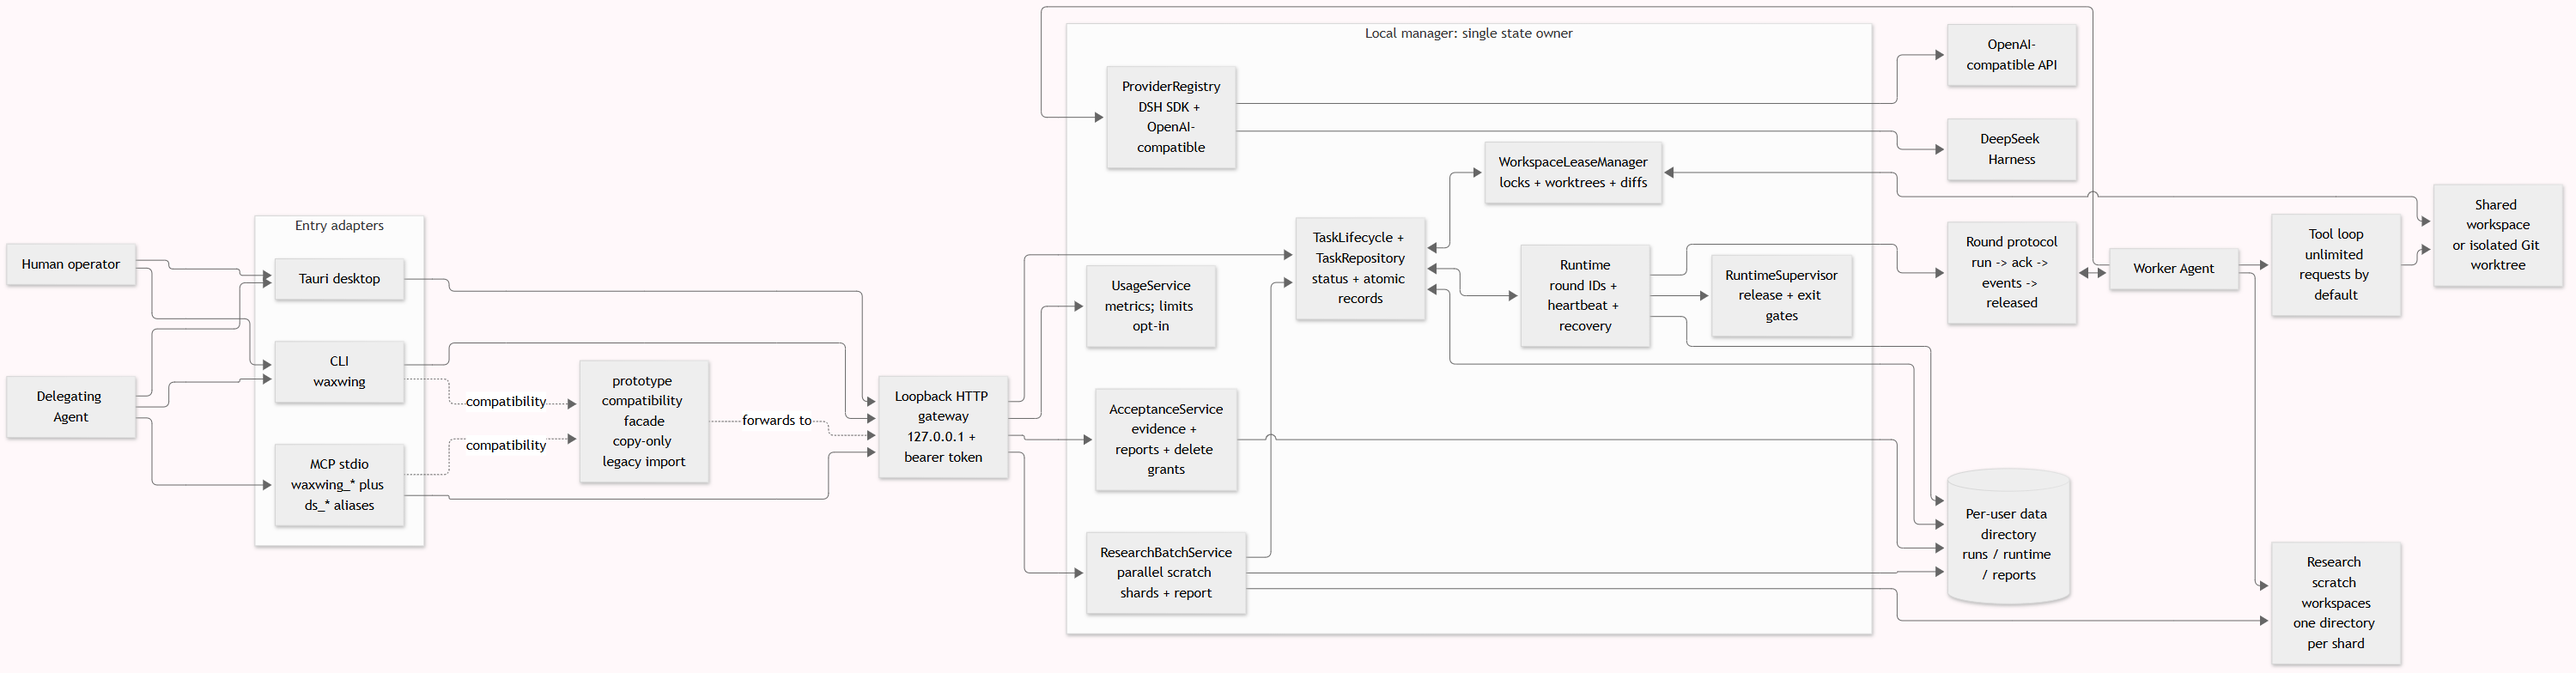
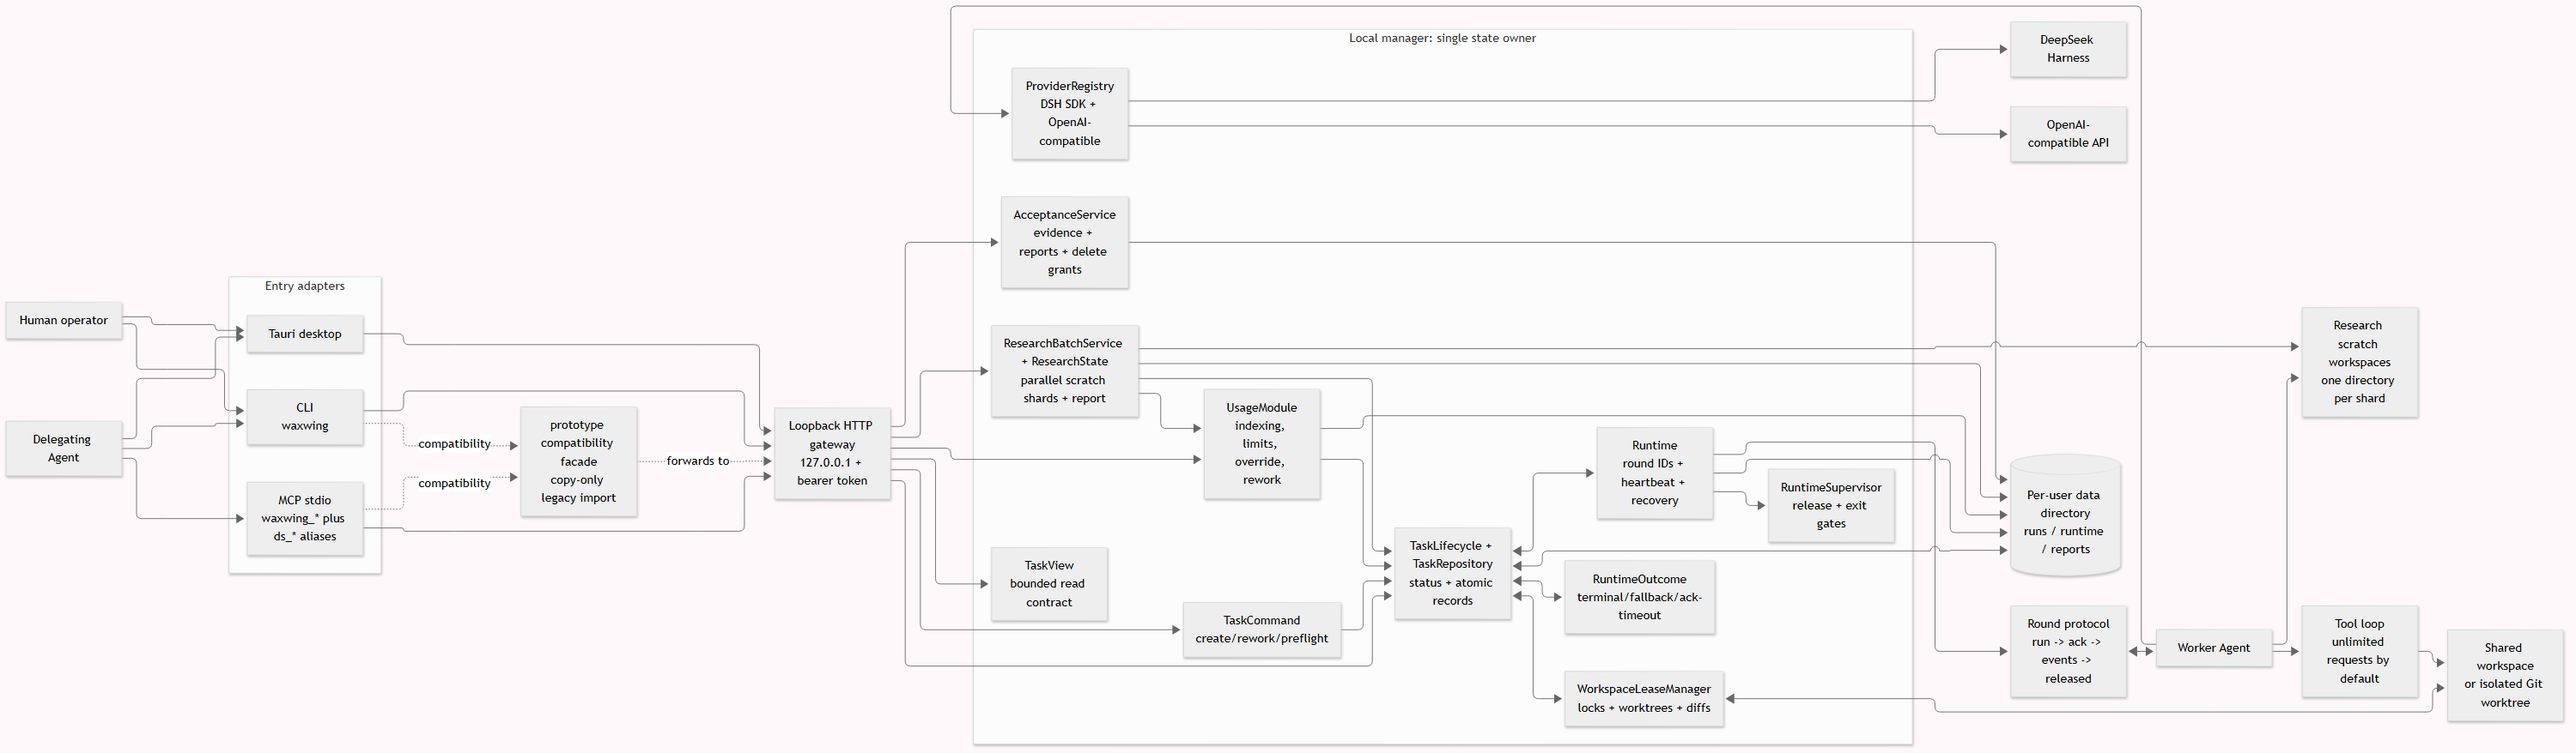
Update docs for published package and deepened modules

diff --git a/docs/architecture.md b/docs/architecture.md
@@ -27,13 +27,14 @@ interface.
 | `src/runtime/outcome.mjs` | Runtime terminal outcome, first-round fallback, protocol failure, and ACK timeout projection |
 | `src/runtime/supervisor.mjs` | Release and confirmed-exit gates used by the runtime module |
 | `src/runtime/identity.mjs` | Residual-runtime identity verification |
+| `src/tasks/command.mjs` | Create/rework/preflight validation order and transaction inputs |
 | `src/acceptance/service.mjs` | Reports, hashes, deletion manifests, human grants |
 | `src/research/state.mjs` | Shard-to-batch state machine, cancellation preservation, terminal classification |
 | `src/research/service.mjs` | Parallel read-only research shards, scratch workspaces, partial results, aggregate reports |
 | `src/usage/execution-policy.mjs` | Round-start policy read, bounded prompt appendix, and report provenance |
 | `src/usage/policy.mjs` | Limit validation, inheritance, threshold matrix, one-round override decision |
-| `src/usage/module.mjs` | One seam for metrics snapshots, cumulative limits, one-round override, and rework policy |
-| `src/usage/service.mjs` | Compatibility metrics facade; optional thresholds are disabled by default |
+| `src/usage/module.mjs` | One usage seam: indexing, pricing, limits, override, and rework policy |
+| `src/usage/service.mjs` | Compatibility facade; production callers use `UsageModule` |
 | `src/providers/registry.mjs` | Provider discovery and adapter selection |
 | `prototype/manager.mjs` | `0.1.x` coordinator and compatibility facade |
 | `prototype/` | Legacy entry-point and data compatibility until at least `0.2.0` |
@@ -60,13 +61,16 @@ flowchart LR
   Gateway["Loopback HTTP gateway<br/>127.0.0.1 + bearer token"]
 
   subgraph Manager["Local manager: single state owner"]
+    TaskCmd["TaskCommand<br/>create/rework/preflight"]
     Tasks["TaskLifecycle + TaskRepository<br/>status + atomic records"]
+    Outcome["RuntimeOutcome<br/>terminal/fallback/ack-timeout"]
     Runtime["Runtime<br/>round IDs + heartbeat + recovery"]
     Supervisor["RuntimeSupervisor<br/>release + exit gates"]
     Lease["WorkspaceLeaseManager<br/>locks + worktrees + diffs"]
     Acceptance["AcceptanceService<br/>evidence + reports + delete grants"]
-    Research["ResearchBatchService<br/>parallel scratch shards + report"]
-    Usage["UsageService<br/>metrics; limits opt-in"]
+    Research["ResearchBatchService + ResearchState<br/>parallel scratch shards + report"]
+    Usage["UsageModule<br/>indexing, limits, override, rework"]
+    TaskView["TaskView<br/>bounded read contract"]
     Providers["ProviderRegistry<br/>DSH SDK + OpenAI-compatible"]
   end
 
@@ -89,18 +93,25 @@ flowchart LR
   MCP --> Gateway
   Desktop --> Gateway
 
+  Gateway --> TaskCmd
+  Gateway --> TaskView
   Gateway --> Tasks
   Gateway --> Acceptance
   Gateway --> Research
   Gateway --> Usage
+  TaskCmd --> Tasks
+  Tasks <--> Outcome
   Tasks <--> Runtime
   Runtime --> Supervisor
   Tasks <--> Lease
   Tasks <--> Data
   Acceptance --> Data
   Research --> Tasks
+  Research --> Usage
   Research --> Scratch
   Research --> Data
+  Usage --> Data
+  Usage --> Tasks
   Runtime --> Data
 
   Runtime --> Protocol

diff --git a/docs/release-notes-0.1.0.md b/docs/release-notes-0.1.0.md
@@ -19,14 +19,18 @@ statistics on the local machine.
 - Waxwing data lives under the per-user Waxwing directory, with copy-only
   migration from the legacy location.
 
-## Downloads
+## Install
 
-- `waxwing-0.1.0.tgz`: npm package artifact for the `waxwing` CLI and MCP server.
-- `waxwing-0.1.0-windows-x64.zip`: unsigned portable Windows desktop build.
-- `SHA256SUMS`: checksums for the release artifacts.
+Install the npm package from the registry:
 
-The npm registry publication is pending. Install the tarball above until
-`npm install -g @quanernya/waxwing` becomes available.
+```bash
+npm install -g @quanernya/waxwing
+```
+
+The package installs `waxwing` for the CLI and `waxwing-mcp` for the MCP stdio
+server. The tarball `waxwing-0.1.0.tgz`, the unsigned Windows portable archive
+`waxwing-0.1.0-windows-x64.zip`, and `SHA256SUMS` remain available as release
+artifacts for the `v0.1.0` GitHub Release.
 
 Verify downloaded files before running them:
 

diff --git a/README.md b/README.md
@@ -39,19 +39,14 @@ multi-tenant service.
 
 Requires Node.js 20 or newer.
 
-The npm registry publication for `0.1.0` is pending. Until it is available,
-download `waxwing-0.1.0.tgz` from the
-[v0.1.0 release](https://github.com/quanertsuki/waxwing/releases/tag/v0.1.0)
-and install that file:
+`waxwing` is installed from the npm registry under the package name
+`@quanernya/waxwing`:
 
 ```bash
-npm install -g ./waxwing-0.1.0.tgz
+npm install -g @quanernya/waxwing
 waxwing health
 waxwing
 ```
-
-`npm install -g @quanernya/waxwing` becomes the supported install command after the
-package is published to the npm registry.
 
 The package installs two commands:
 

diff --git a/README.zh-CN.md b/README.zh-CN.md
@@ -36,17 +36,13 @@ CLI、MCP stdio 和 Tauri 桌面端是同一管理器的三个入口。管理器
 
 需要 Node.js 20 或更高版本。
 
-`0.1.0` 尚未发布到 npm registry。发布前请从
-[v0.1.0 Release](https://github.com/quanertsuki/waxwing/releases/tag/v0.1.0)
-下载 `waxwing-0.1.0.tgz`，再安装该文件：
+`waxwing` 已发布到 npm registry，包名为 `@quanernya/waxwing`：
 
 ```bash
-npm install -g ./waxwing-0.1.0.tgz
+npm install -g @quanernya/waxwing
 waxwing health
 waxwing
 ```
-
-npm registry 发布完成后，推荐安装命令为 `npm install -g @quanernya/waxwing`。
 
 安装包提供两个命令：
 

diff --git a/CHANGELOG.md b/CHANGELOG.md
@@ -32,8 +32,8 @@ and uses semantic versioning for public releases.
   2.12.4
 - npm package, desktop package, Rust crate, and Windows bundle metadata
   attribute the release to `quanertsuki`
-- Installation docs point to the verified v0.1.0 tarball until npm registry
-  publication is complete
+- The npm package is published as `@quanernya/waxwing@0.1.0` and installs the
+  `waxwing` and `waxwing-mcp` commands
 
 ### Fixed
 
